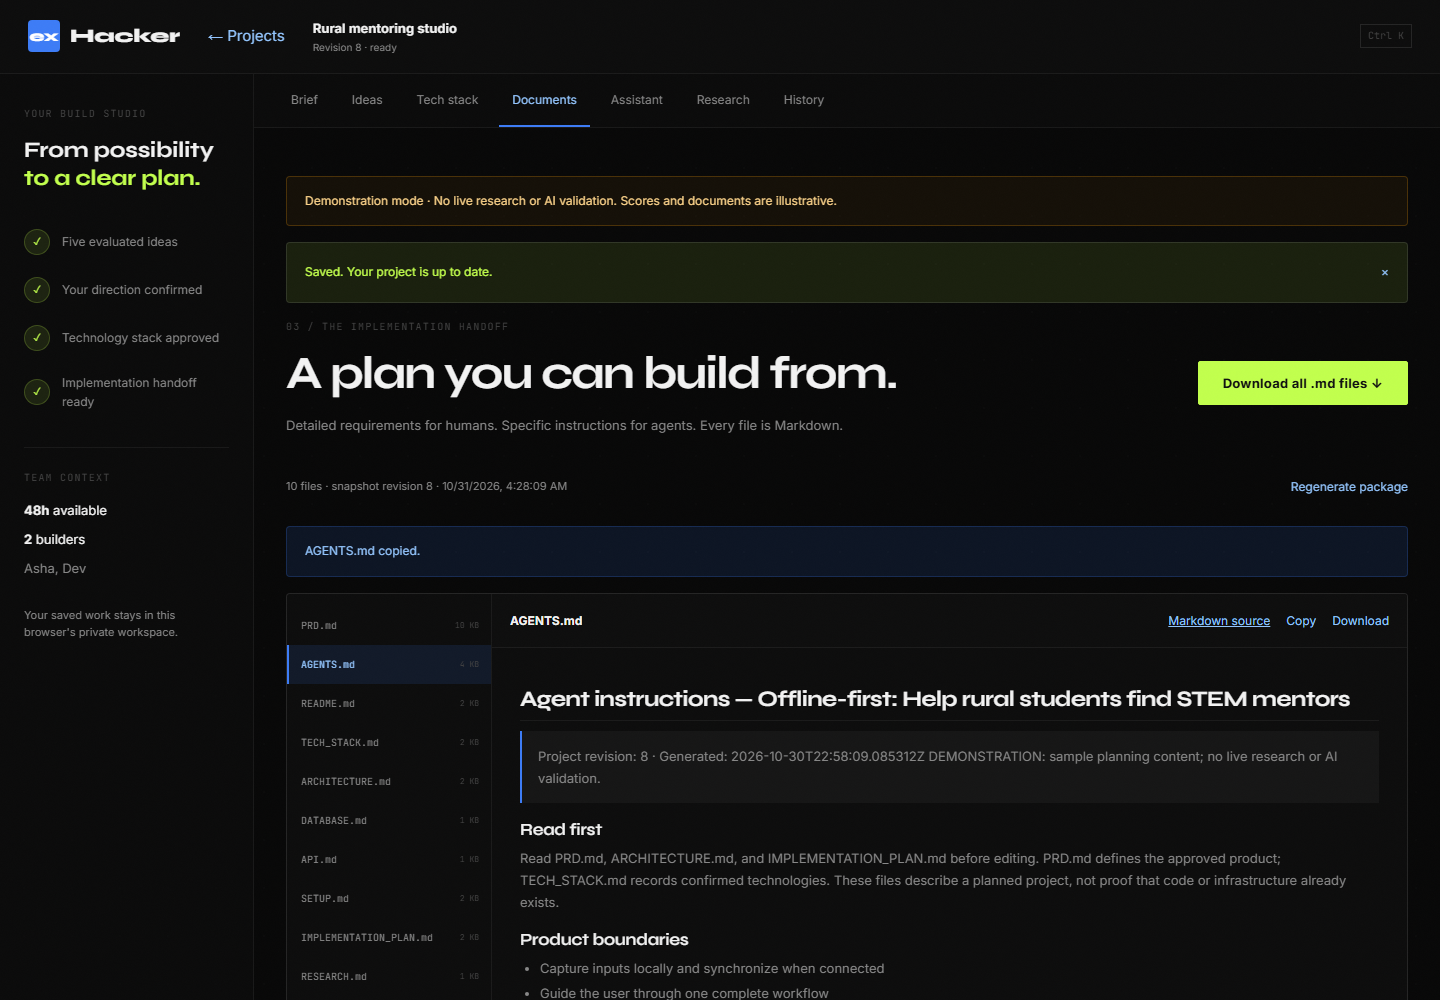
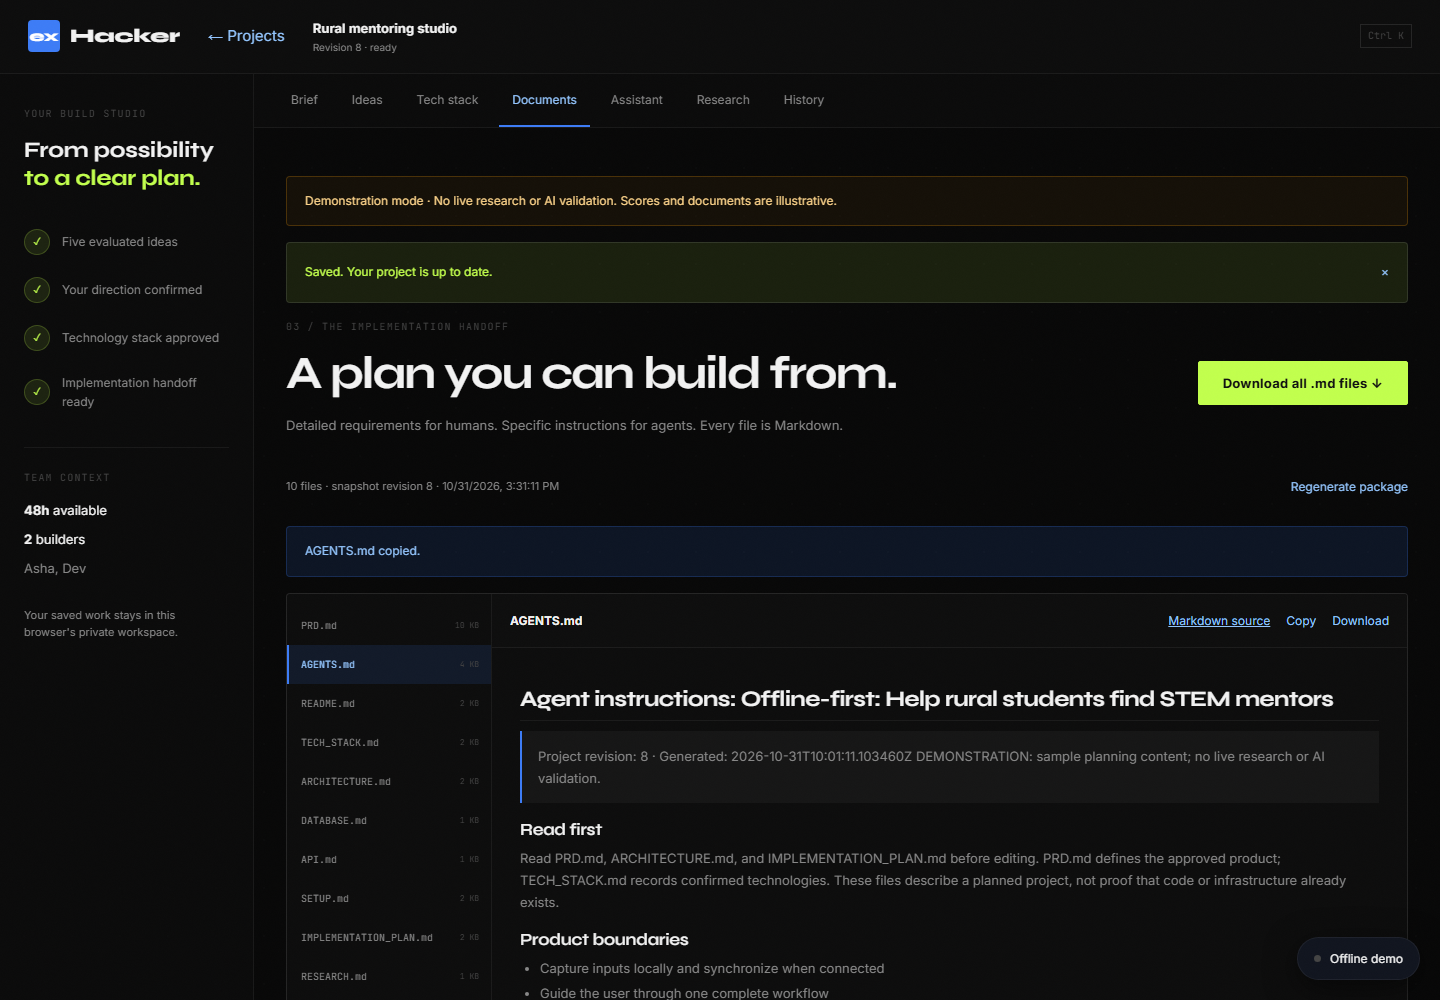
Refresh product screenshots

diff --git a/frontend/tests/byok.spec.ts b/frontend/tests/byok.spec.ts
@@ -1,4 +1,6 @@
 import { expect, test, type Page } from "@playwright/test";
+import { mkdir } from "node:fs/promises";
+import { resolve } from "node:path";
 
 const key = "synthetic-browser-key-never-real";
 
@@ -8,6 +10,12 @@ async function connect(page: Page, provider: string) {
   await dialog
     .getByRole("combobox", { name: "AI provider", exact: true })
     .selectOption(provider);
+  if (process.env.CAPTURE_README === "true" && provider === "anthropic") {
+    await page.setViewportSize({ width: 1440, height: 1000 });
+    await mkdir(resolve("../docs/images"), { recursive: true });
+    // Capture before a credential is entered, never a filled password field.
+    await page.screenshot({ path: resolve("../docs/images/ai-session.png") });
+  }
   await dialog.getByLabel("Provider API key", { exact: true }).fill(key);
   await dialog
     .getByRole("button", { name: "Start AI session", exact: true })

diff --git a/README.md b/README.md
@@ -187,6 +187,15 @@ The frontend proxy defaults to `http://127.0.0.1:8000`. Set server-side `BACKEND
 
 **Choose a model · Connect a temporary key · Switch future operations · Keep your artifacts**
 
+<details>
+<summary><strong>See the AI session controls</strong></summary>
+
+![The actual AI session settings, captured before any key is entered](docs/images/ai-session.png)
+
+*Real application interface. This capture contains no entered API key and does not establish paid-provider access.*
+
+</details>
+
 > [!IMPORTANT]
 > AI keys are never intentionally saved to browser storage, project records, files, or job payloads. A default 30-minute backend RAM lease supports background work while valid. Expiry, removal, or a server restart pauses affected jobs for credential reentry. Reloading clears this tab's session references; saved projects remain available. [Security boundaries and provider limitations](docs/BYOK.md).
 
